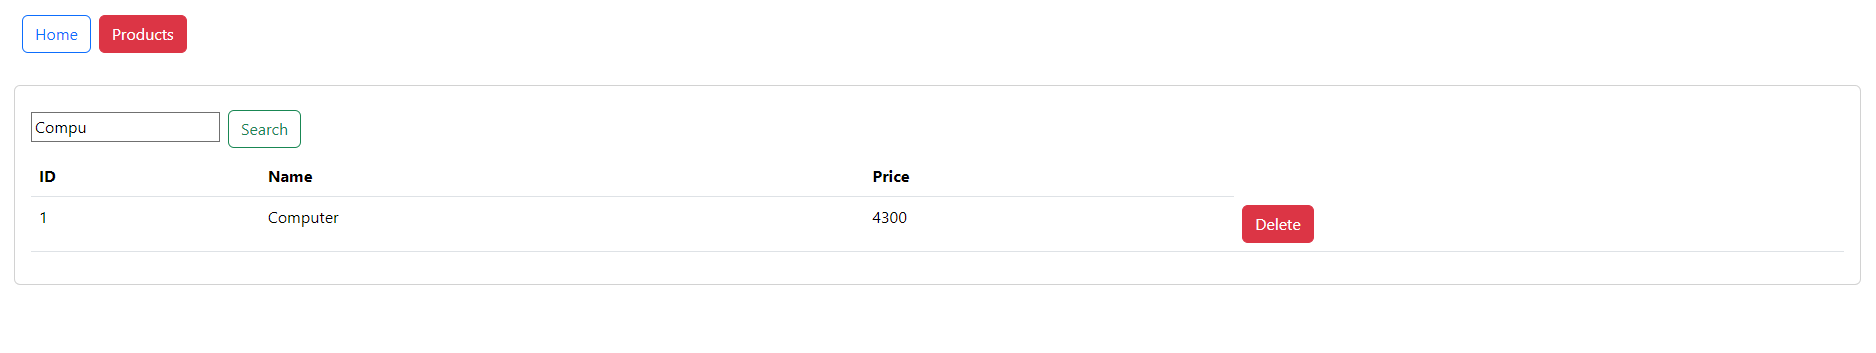
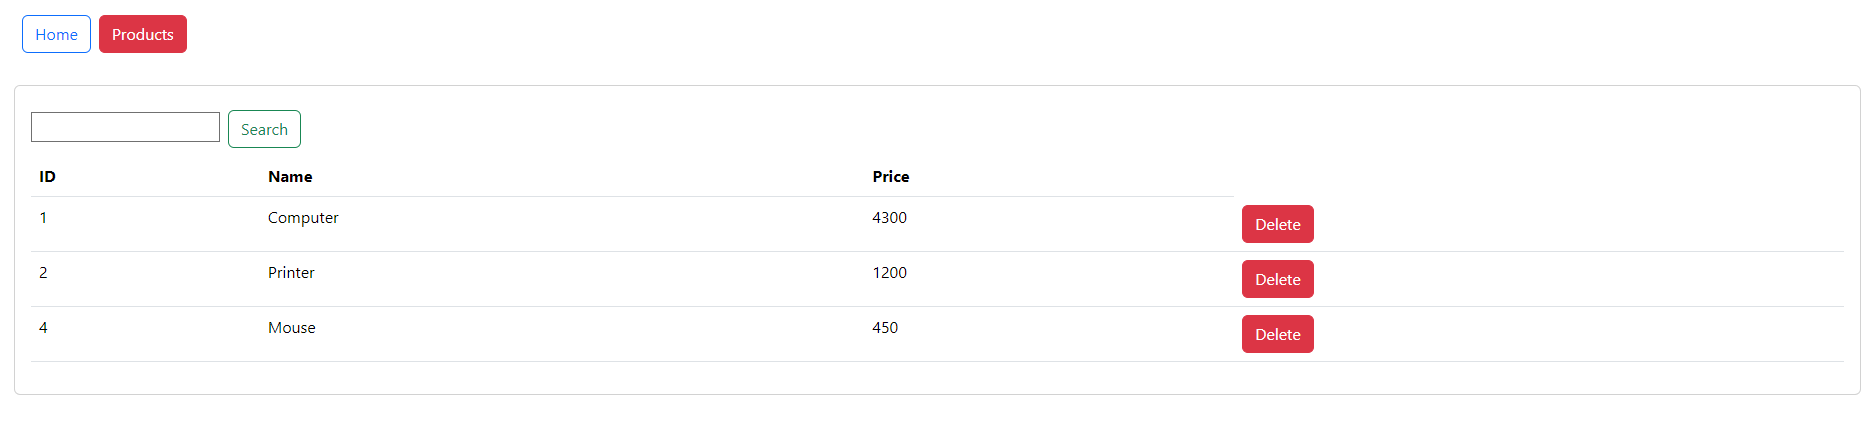
FINAL

diff --git a/README.md b/README.md
@@ -11,8 +11,33 @@ Cette application Angular permet de gérer des produits via une interface conviv
 
 ### Démarrage de l'application
 
-<img src="C:\Users\asus\Desktop\ETUDES\2ACI%20INFO\DEV%20JAVA%20AVANCE\Angular-TP\screens\1.png"/>
+![](/screens/1.png)
 
+### Application
+
+1. **Page d'accueil** :
+
+   Cette capture démontre la page d'accueil.
+
+![](/screens/2.png)
+
+2. **Page des produits** :
+
+   Cette image montre la liste des produits enregistrés dans l'application.
+
+![](/screens/3.png)
+
+3. **Recherche d'un produit** :
+
+   Cette capture illustre l'interface de recherche, permettant à l'utilisateur de trouver un produit rapidement.
+
+![](/screens/4.png)
+
+4. **Suppression d'un produit** :
+
+   Cette image montre l'option de suppression d'un produit dans la liste. Ici, le produit **Mouse** a été supprimé.
+
+![](/screens/5.png)
 
 
 ## Auteur : 
